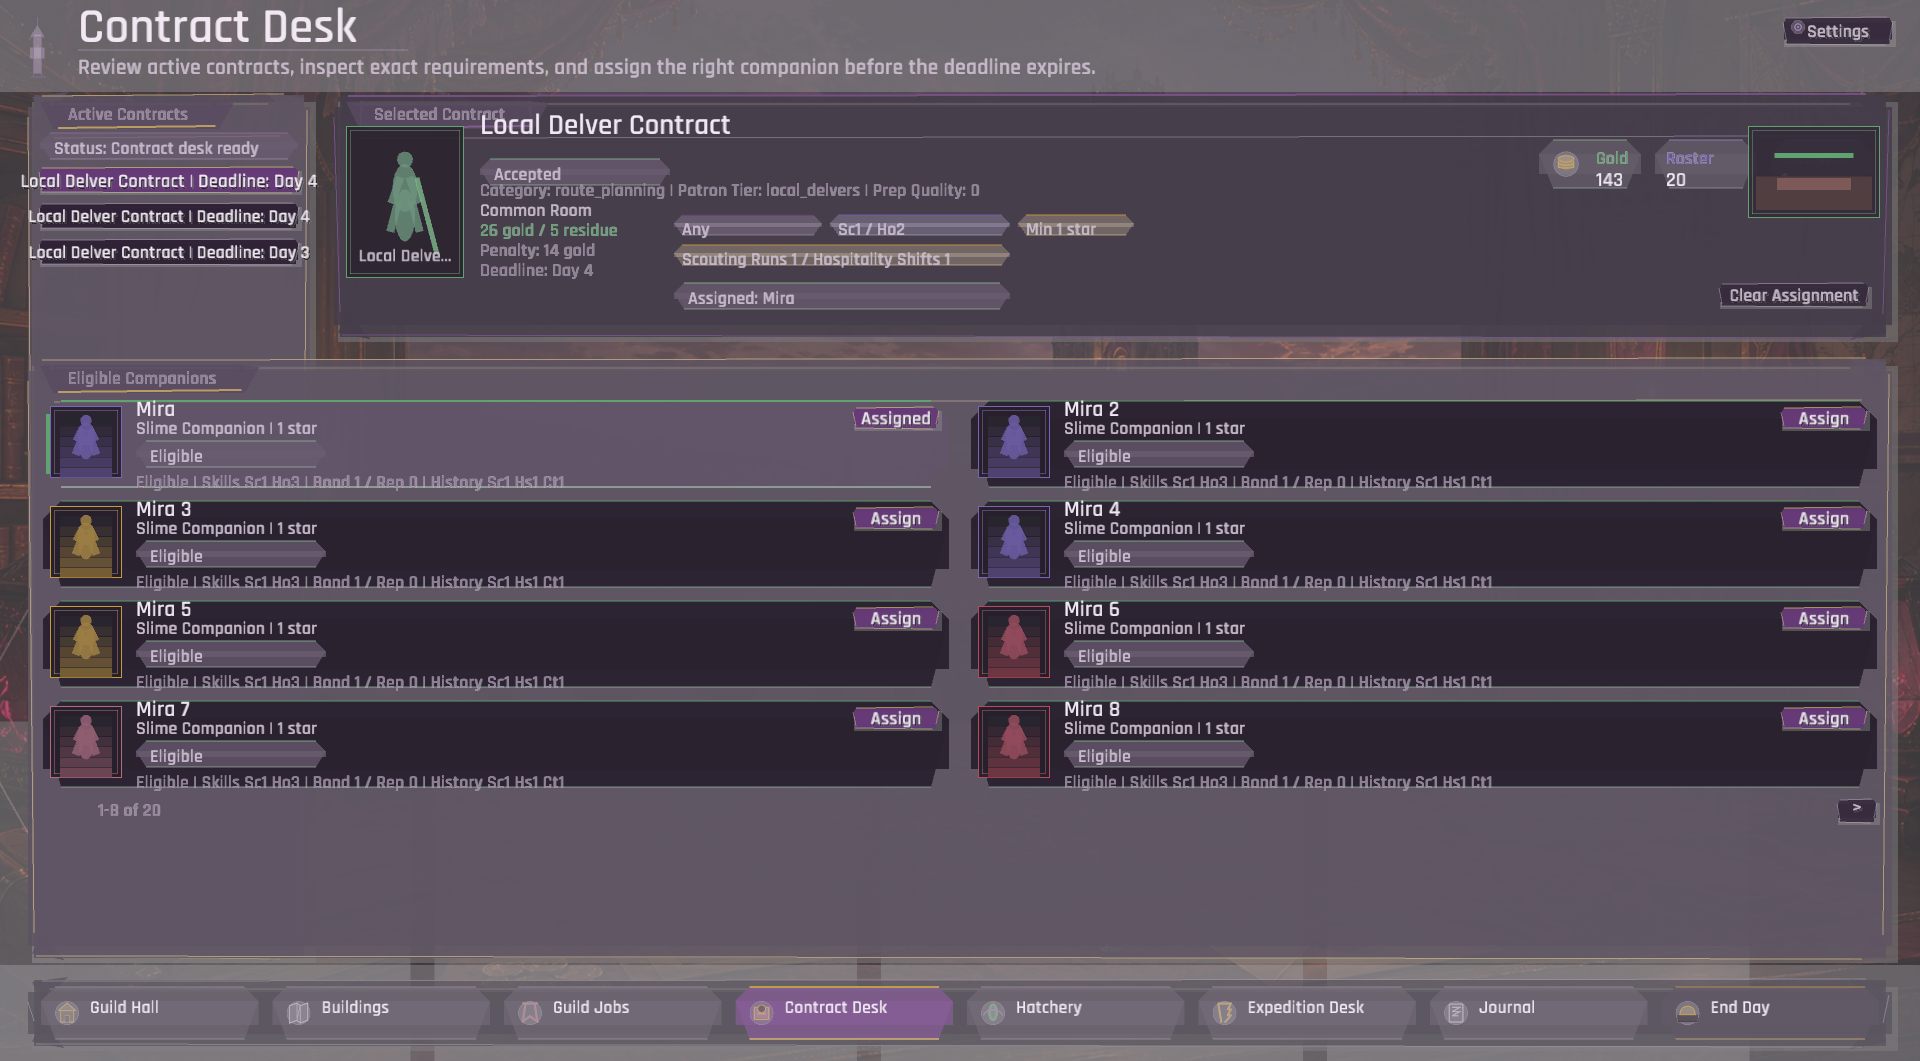
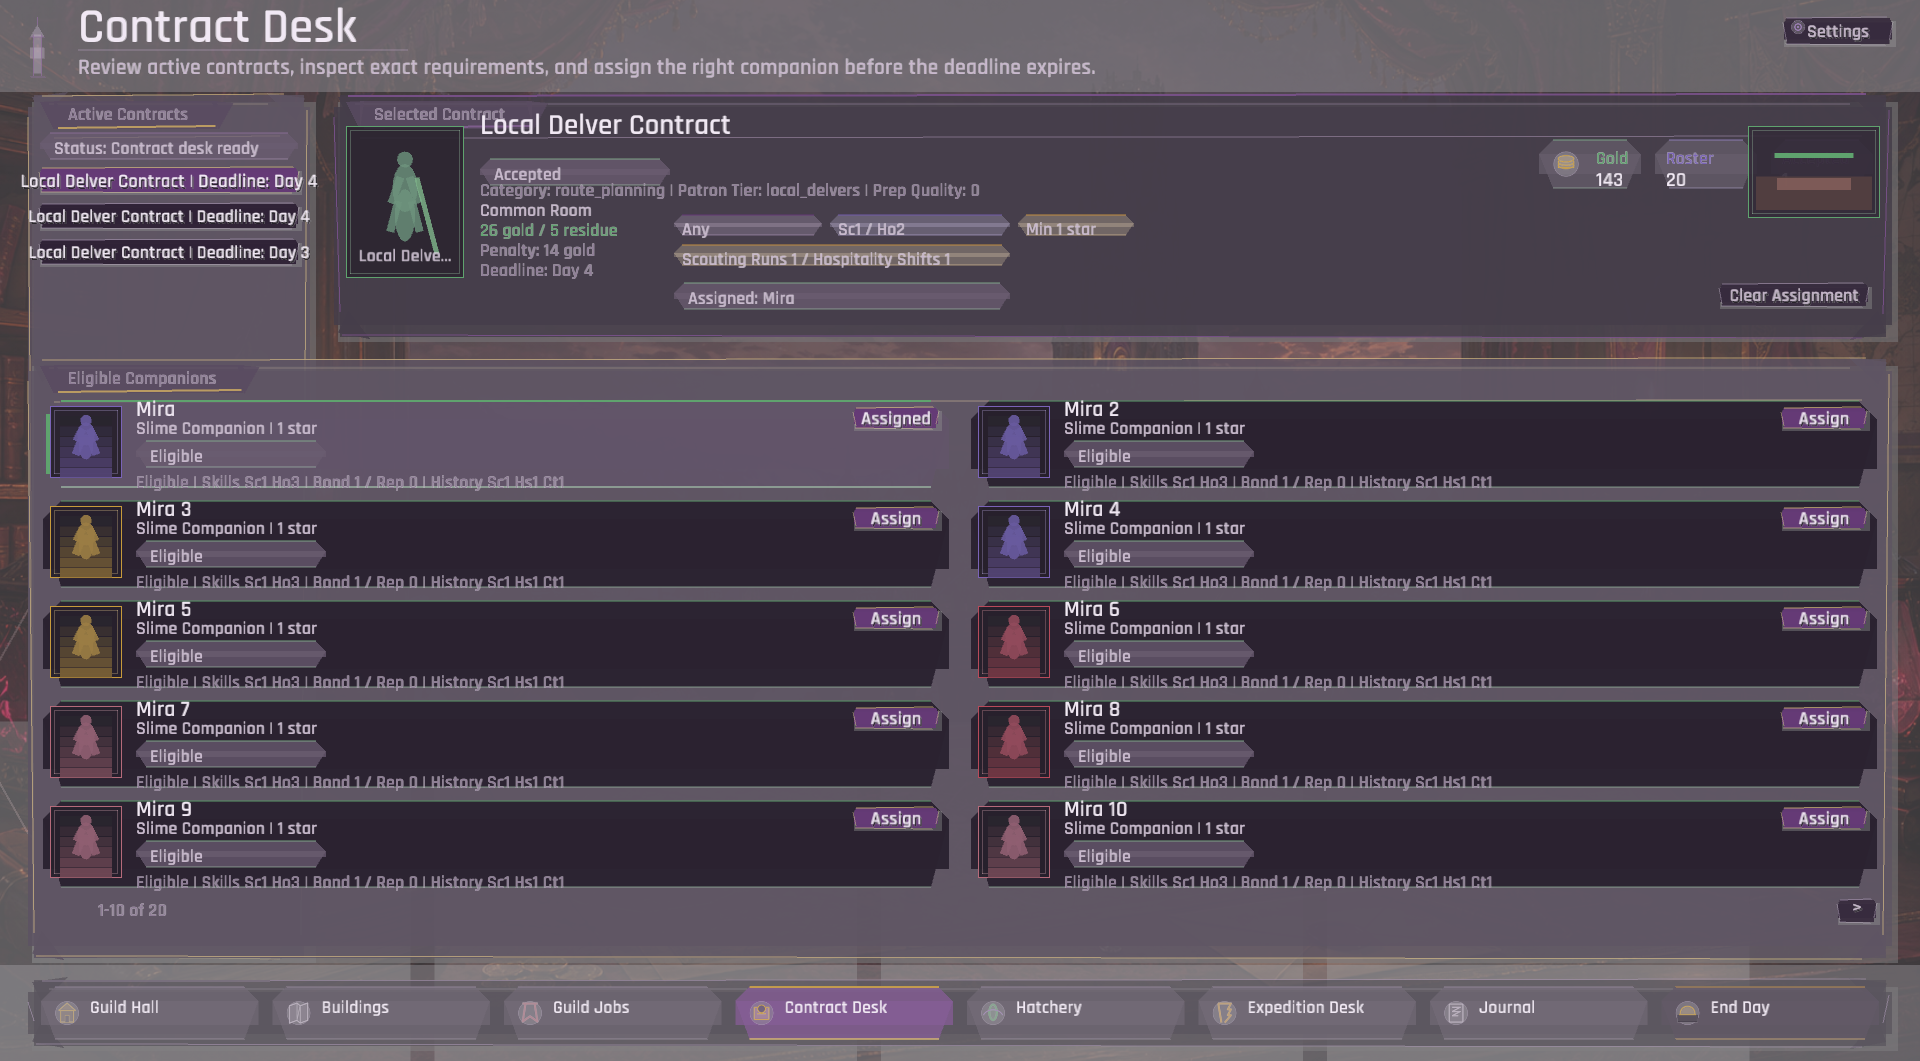
The main screen introduced three companions and kept seventeen back
The Town Overview roster panel is the tallest thing on the screen and grows with
the window. It was drawing one row into it. A hardcoded 1 went in as the row
capacity, with a comment explaining that a single row lets the pager come out of
the card height rather than taking a row of its own — which was true, and cost
the player seven pages to meet a guild of twenty while five sixths of the panel
sat empty. The row count comes from the panel now, the way the hatchery's egg
column and the journal's log already take theirs, and the cards lay out as a
grid instead of a line. Three a page becomes nine.

Behind it was a shared one. The window helper gave the pager a whole card row
whenever paging was needed. Every one of its four callers draws the pager
underneath the last row of cards, and a card row is between 100 and 172 pixels
against a pager that needs 34. So each of them was buying a line of buttons at
the price of two to three companions. The reserve is measured in pixels now, and
only charged when a pager is actually drawn, so a guild small enough to fit still
uses every row it has. Town overview goes three to nine, the expedition team six
to eight, the contract desk eight to ten.

The guard is a test that a pager costs its own height rather than a card row,
checked by planting the old rule back. Worth recording that its first run failed
and the test was the thing that was wrong: given room for exactly four rows and
[…]

Changed region(s): [[0.0, 0.7465, 1.0, 0.8709]]

diff --git a/src/ui/screens/roster_window.rs b/src/ui/screens/roster_window.rs
@@ -51,9 +51,9 @@ pub(super) struct RosterWindow {
 }
 
 impl RosterWindow {
-    /// `row_capacity` is how many card rows physically fit in the panel. When
-    /// the whole roster fits, no pager is drawn and every row goes to cards, so
-    /// a six-companion guild looks exactly as it did before paging existed.
+    /// `row_capacity` is how many card rows the caller has room to draw, with
+    /// space for the pager already taken out — see [`Self::from_panel`], which
+    /// is what every screen should use.
     pub(super) fn new(roster_len: usize, page: usize, row_capacity: usize, columns: usize) -> Self {
         let row_capacity = row_capacity.max(1);
         let columns = columns.max(1);
@@ -70,15 +70,7 @@ impl RosterWindow {
             };
         }
 
-        // A multi-row panel gives the pager a row of its own; a single-row strip
-        // keeps all its cards and takes the pager out of the card height
-        // instead. Either way the floor is one full row, because a panel too
-        // short to page is still better than one that silently hides the guild.
-        let page_size = if row_capacity > 1 {
-            (row_capacity - 1) * columns
-        } else {
-            columns
-        };
+        let page_size = row_capacity * columns;
         let page_count = roster_len.div_ceil(page_size);
         let page = page.min(page_count.saturating_sub(1));
         let first_index = page * page_size;
@@ -91,6 +83,33 @@ impl RosterWindow {
             page_count,
             columns,
         }
+    }
+
+    /// The window for a panel `usable_h` tall drawing rows `card_row_h` apart.
+    ///
+    /// Every screen here draws its pager *underneath* the last card row, so the
+    /// room it needs is `PAGER_RESERVE_H` — about 34px. The rule this replaces
+    /// gave the pager a whole card row instead, and a card row is 100 to 172px.
+    /// On the Town Overview that cost the tallest panel on the main screen an
+    /// entire row of three companions to make space for one line of buttons.
+    ///
+    /// The reserve only applies when a pager is actually drawn, so a guild that
+    /// fits still uses every row.
+    pub(super) fn from_panel(
+        roster_len: usize,
+        page: usize,
+        usable_h: f32,
+        card_row_h: f32,
+        columns: usize,
+    ) -> Self {
+        let columns = columns.max(1);
+        let rows = |height: f32| (((height / card_row_h).floor()) as usize).max(1);
+
+        let unpaged_rows = rows(usable_h);
+        if roster_len <= unpaged_rows * columns {
+            return Self::new(roster_len, page, unpaged_rows, columns);
+        }
+        Self::new(roster_len, page, rows(usable_h - PAGER_RESERVE_H), columns)
     }
 
     pub(super) fn needs_pager(&self) -> bool {
@@ -176,6 +195,34 @@ pub(super) fn roster_panel_height(window: &RosterWindow, header_h: f32, card_row
 #[cfg(test)]
 mod tests {
     use super::*;
+
+    /// The pager costs a pager's height, not a card row.
+    ///
+    /// The rule this replaces gave the pager a whole row of cards. On the Town
+    /// Overview, whose card rows are 172px against a 34px pager, that spent an
+    /// entire row of three companions on one line of buttons — the panel showed
+    /// three of twenty and paged seven times with five sixths of itself empty.
+    #[test]
+    fn a_pager_costs_its_own_height_rather_than_a_row_of_cards() {
+        let card_row_h = 172.0;
+        // Four rows plus a pager's worth of slack, which is exactly what a panel
+        // needs to draw four rows and a pager beneath them.
+        let usable_h = card_row_h * 4.0 + PAGER_RESERVE_H;
+
+        let paged = RosterWindow::from_panel(20, 0, usable_h, card_row_h, 3);
+        assert_eq!(
+            paged.card_rows(),
+            4,
+            "a {PAGER_RESERVE_H}px pager should cost its own height, not a {card_row_h}px card row"
+        );
+        assert_eq!(paged.page_size, 12);
+        assert!(paged.needs_pager());
+
+        // And a guild that fits still uses every row, pager or not.
+        let unpaged = RosterWindow::from_panel(12, 0, card_row_h * 4.0, card_row_h, 3);
+        assert_eq!(unpaged.visible_count, 12);
+        assert!(!unpaged.needs_pager());
+    }
 
     /// A guild that fits must render exactly as it did before paging existed.
     #[test]

diff --git a/src/ui/screens/town_overview_roster.rs b/src/ui/screens/town_overview_roster.rs
@@ -14,7 +14,7 @@ use crate::ui::art::draw_condition_badges;
 use crate::ui::art::draw_species_portrait;
 use crate::ui::core::{draw_body_text, draw_body_text_in_box, secondary_button, utility_button};
 use crate::ui::layout;
-use crate::ui::screens::roster_window::{draw_roster_pager, RosterWindow, PAGER_RESERVE_H};
+use crate::ui::screens::roster_window::{draw_roster_pager, RosterWindow};
 use crate::ui::theme;
 
 use crate::ui::view_models::{assignment_label, companion_skill_summary, species_name_by_id};
@@ -49,27 +49,24 @@ pub(super) fn draw_monster_roster(
     // the only place she can be released — so a flat `.min(3)` against a
     // twenty-companion cap meant seventeen companions had no profile screen and
     // could never be let go, which is exactly the wall a guild hits at capacity.
-    let roster = RosterWindow::new(
+    // The panel takes whatever height the screen has left, and this drew a
+    // single row into it: three companions of twenty, seven pages to see the
+    // guild, and about five sixths of the tallest panel on the main screen left
+    // as empty backdrop. The row count comes from the panel now, the way the
+    // hatchery's egg column and the journal's log take theirs.
+    let card_h = ROSTER_CARD_H;
+    let roster = RosterWindow::from_panel(
         game_state.monsters.len(),
         roster_page,
-        1,
+        layout.roster_h - ROSTER_PANEL_CHROME_H,
+        card_h + ROSTER_ROW_GAP,
         ROSTER_STRIP_COLUMNS,
     );
     let visible_count = roster.visible_count;
-    let card_width = if visible_count <= 1 {
-        layout.content_width - layout::PANEL_PADDING * 2.0
-    } else {
-        let total_gap = layout::SECTION_GAP * (visible_count as f32 - 1.0);
-        (layout.content_width - layout::PANEL_PADDING * 2.0 - total_gap) / visible_count as f32
-    };
-    // One row of cards, so the pager comes out of the card height rather than
-    // getting a row of its own.
-    let pager_reserve = if roster.needs_pager() {
-        PAGER_RESERVE_H
-    } else {
-        0.0
-    };
-    let card_h = 162.0_f32.min((layout.roster_h - 62.0 - pager_reserve).max(120.0));
+    let columns = ROSTER_STRIP_COLUMNS.min(visible_count.max(1));
+    let total_gap = layout::SECTION_GAP * (columns as f32 - 1.0);
+    let card_width =
+        (layout.content_width - layout::PANEL_PADDING * 2.0 - total_gap) / columns as f32;
     let card_y = layout.roster_y + 44.0;
 
     for (index, monster) in game_state
@@ -79,21 +76,24 @@ pub(super) fn draw_monster_roster(
         .take(visible_count)
         .enumerate()
     {
+        let column = index % columns;
+        let row = index / columns;
         let card_x = layout.left_margin
             + layout::PANEL_PADDING
-            + index as f32 * (card_width + layout::SECTION_GAP);
-        if let Some(action) =
-            draw_roster_card_organic(data, monster, card_x, card_y, card_width, card_h)
+            + column as f32 * (card_width + layout::SECTION_GAP);
+        let y = card_y + row as f32 * (card_h + ROSTER_ROW_GAP);
+        if let Some(action) = draw_roster_card_organic(data, monster, card_x, y, card_width, card_h)
         {
             return Some(action);
         }
     }
 
+    let rows_drawn = visible_count.div_ceil(columns.max(1));
     if let Some(action) = draw_roster_pager(
         &roster,
         game_state.monsters.len(),
         layout.left_margin + layout::PANEL_PADDING,
-        card_y + card_h + 4.0,
+        card_y + rows_drawn as f32 * (card_h + ROSTER_ROW_GAP) + 4.0,
         layout.content_width - layout::PANEL_PADDING * 2.0,
         UiAction::ShowRosterPage,
     ) {
@@ -102,6 +102,13 @@ pub(super) fn draw_monster_roster(
 
     None
 }
+
+/// A roster card's height, and the space the panel spends on its title and its
+/// pager. `RosterWindow` gives the last row back to the pager when one is
+/// needed, so the chrome here is only the title band plus a bottom margin.
+const ROSTER_CARD_H: f32 = 162.0;
+const ROSTER_ROW_GAP: f32 = 10.0;
+const ROSTER_PANEL_CHROME_H: f32 = 62.0;
 
 fn draw_roster_card_organic(
     data: &GameData,

diff --git a/src/ui/screens/guild_hall_management_sections.rs b/src/ui/screens/guild_hall_management_sections.rs
@@ -342,10 +342,13 @@ fn draw_worker_cards(
     // past its own frame, through the footer and off the bottom of the screen,
     // and the companions on those rows could not be clicked at all. The column
     // now sizes itself from the space it really has and pages the rest.
-    let row_capacity = (((footer_y - y - WORKER_HEADER_H - layout::SECTION_GAP) / WORKER_CARD_H)
-        .floor() as usize)
-        .max(1);
-    let window = RosterWindow::new(workers.len(), roster_page, row_capacity, ROSTER_COLUMNS);
+    let window = RosterWindow::from_panel(
+        workers.len(),
+        roster_page,
+        footer_y - y - WORKER_HEADER_H - layout::SECTION_GAP,
+        WORKER_CARD_H,
+        ROSTER_COLUMNS,
+    );
     let panel_h = if workers.is_empty() {
         if collapse_empty {
             118.0

diff --git a/src/ui/screens/contract_desk_sections.rs b/src/ui/screens/contract_desk_sections.rs
@@ -557,11 +557,11 @@ pub(super) fn draw_eligible_panel(
     // Rows of cards the panel can hold, which is what decides whether the roster
     // needs paging. The panel keeps its full height either way — it is anchored
     // to the footer — so the pager sits under the cards rather than growing it.
-    let row_capacity = (((panel_h - 42.0) / 100.0).floor() as usize).max(1);
-    let roster = RosterWindow::new(
+    let roster = RosterWindow::from_panel(
         game_state.monsters.len(),
         roster_page,
-        row_capacity,
+        panel_h - 42.0,
+        100.0,
         ROSTER_COLUMNS,
     );
     draw_tier_panel(

diff --git a/src/ui/screens/expedition_planning.rs b/src/ui/screens/expedition_planning.rs
@@ -498,11 +498,11 @@ pub fn draw_expedition_planning(
 
     // How many card rows the panel can physically hold, which is what decides
     // whether the roster needs paging at all.
-    let row_capacity = (((layout.team_h - 58.0) / 104.0).floor() as usize).max(1);
-    let roster = RosterWindow::new(
+    let roster = RosterWindow::from_panel(
         game_state.monsters.len(),
         expedition_state.roster_page,
-        row_capacity,
+        layout.team_h - 58.0,
+        104.0,
         ROSTER_COLUMNS,
     );
     let visible_team_h = if game_state.monsters.is_empty() {

diff --git a/TODO.md b/TODO.md
@@ -171,6 +171,38 @@ in the spec.
 What was fixed this pass is the measurement, not the balance: the collapse is
 now in every report instead of only visible by running the probe by hand.
 
+### Found by review, not by the audit (2026-08-03, sixteenth pass)
+
+The last two screens never photographed crowded, and the lens that has now
+worked three passes running: *fine at day one, wrong by day thirty.*
+
+- ~~The main screen's roster showed three companions of twenty.~~ Fixed.
+  `draw_monster_roster` passed a hardcoded `1` as its row capacity, with a
+  comment explaining that one row lets the pager come out of the card height.
+  The panel is the tallest on the main screen and grows with the window, so at
+  1080p that drew a single row of three into it: **seven pages to see the guild,
+  with about five sixths of the panel left as empty backdrop**. The row count
+  comes from the panel now, the way the hatchery's egg column and the journal's
+  log take theirs, and the cards lay out as a grid. **Three per page → nine.**
+
+- ~~And the shared pager rule was spending a card row on a line of buttons.~~
+  `RosterWindow::new` gave the pager a whole row whenever paging was needed. But
+  all four callers draw their pager *underneath* the last card row, and a card
+  row is 100–172px against a pager that needs 34. The reserve is measured in
+  pixels now, via a new `RosterWindow::from_panel` that takes the usable height
+  and the row pitch — and only applies it when a pager is actually drawn, so a
+  guild that fits still uses every row. Measured across all three roster panels:
+  **town overview 3 → 9 per page, expedition team 6 → 8, contract desk 8 → 10.**
+
+  The guard is a test asserting a pager costs its own height rather than a card
+  row, verified by planting the old rule back. Its first run failed and the
+  *test* was wrong, not the code: with space for exactly four rows and no slack,
+  any reserve must cost a row. The property worth pinning is that it costs one
+  only when there is no pager-sized slack, which is what it now asserts.
+
+- **Balance untouched** — no report file changed at all this pass, not even a
+  version stamp.
+
 ### Found by review, not by the audit (2026-08-03, fifteenth pass)
 
 The two screens no pass had read closely, photographed at campaign scale for the

diff --git a/loop.md b/loop.md
@@ -1227,6 +1227,31 @@ Stop the loop and report if:
   than capped; (c) the town overview and expedition planning are the screens with the
   most panels and have never been photographed crowded.
 
+- **2026-08-03 — sixteenth pass (three companions of twenty on the main screen).**
+  Photographed the last two screens that had never been seen crowded. The Town
+  Overview roster passed a hardcoded `1` as its row capacity into the tallest panel on
+  the main screen — three companions a page against a cap of twenty, seven pages to
+  see the guild, five sixths of the panel empty backdrop. Derived from the panel now,
+  laid out as a grid. Behind it sat a shared bug: `RosterWindow::new` gave the pager a
+  whole card row whenever paging was needed, but all four callers draw their pager
+  *underneath* the cards, and a card row is 100–172px against a 34px pager. Replaced
+  with `RosterWindow::from_panel`, which reserves pixels and only when a pager is
+  actually drawn. **Town overview 3 → 9 per page, expedition team 6 → 8, contract desk
+  8 → 10.**
+  **Result:** 124 tests (was 123), fmt and clippy clean, publish green, **no report
+  file changed at all** — not even a version stamp. Guard verified by planting the old
+  rule; its first run failed and the *test* was wrong, not the code (with space for
+  exactly four rows and no slack, any reserve must cost a row — the property worth
+  pinning is that it costs one only when there is no pager-sized slack).
+  **Next iteration should know:** (a) *fine at day one, wrong by day thirty* has now
+  found defects three passes running and every main screen has been through it —
+  hatchery and town management (buildings) are the two that have never been captured
+  crowded, and the hatchery's egg list is the obvious next candidate since it carries
+  its own scroll; (b) the hardcoded-row-count family should now be **exhausted** — the
+  four panels that had one all derive it, so if a fifth appears it is new code, not a
+  survivor; (c) still open and untouched: the `ui_text` migration (~40 hardcoded
+  strings) and the unbounded event log in the save.
+
 ## Deferred (needs a new system or a decision; not for this loop)
 
 - **Make the validation policy's build order a plan rather than a shopping list.** Measured and
